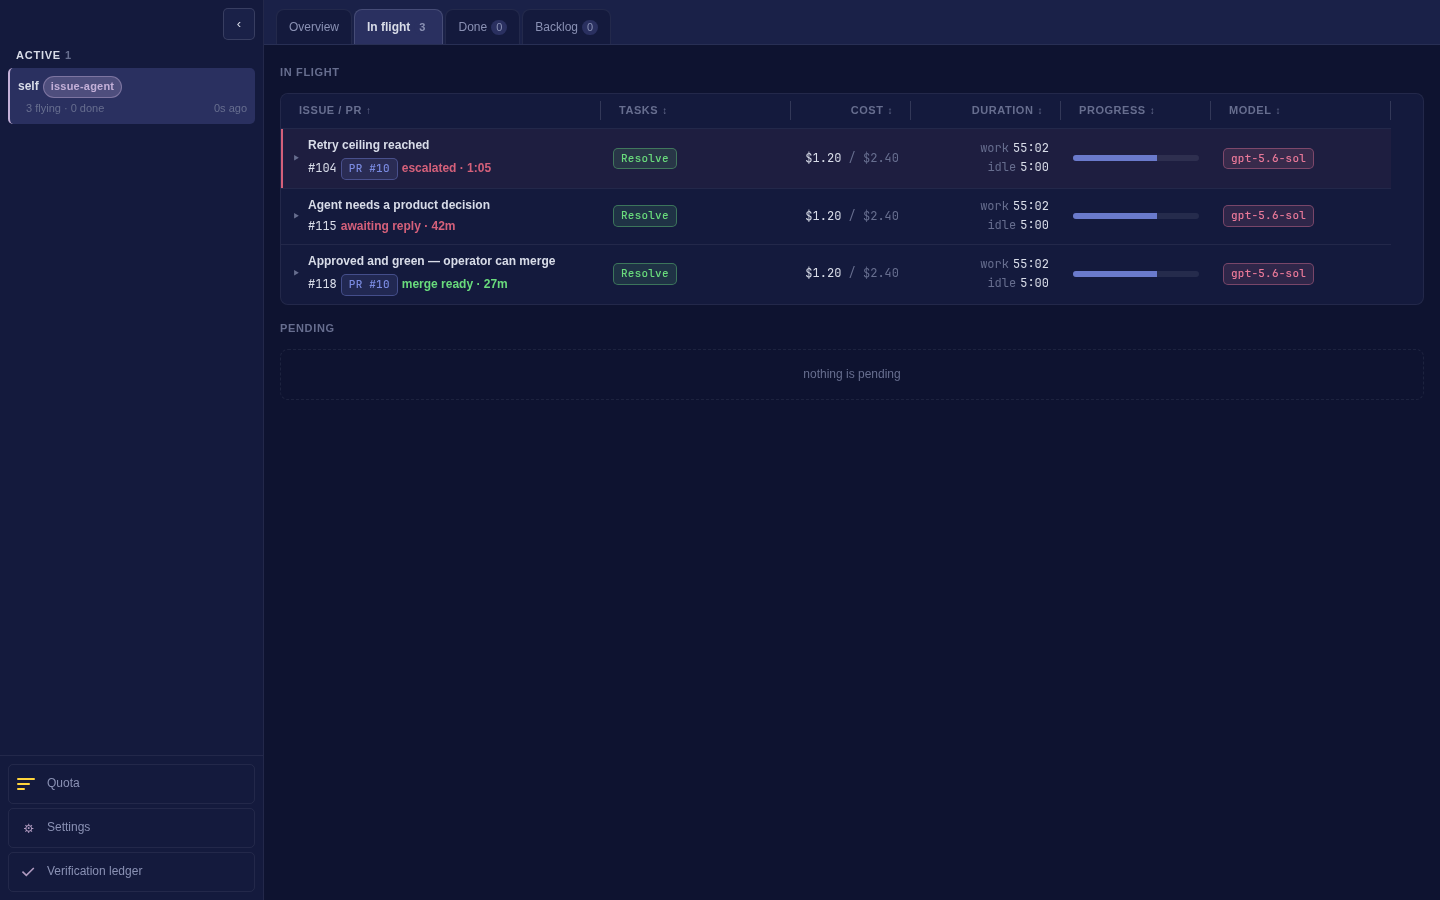
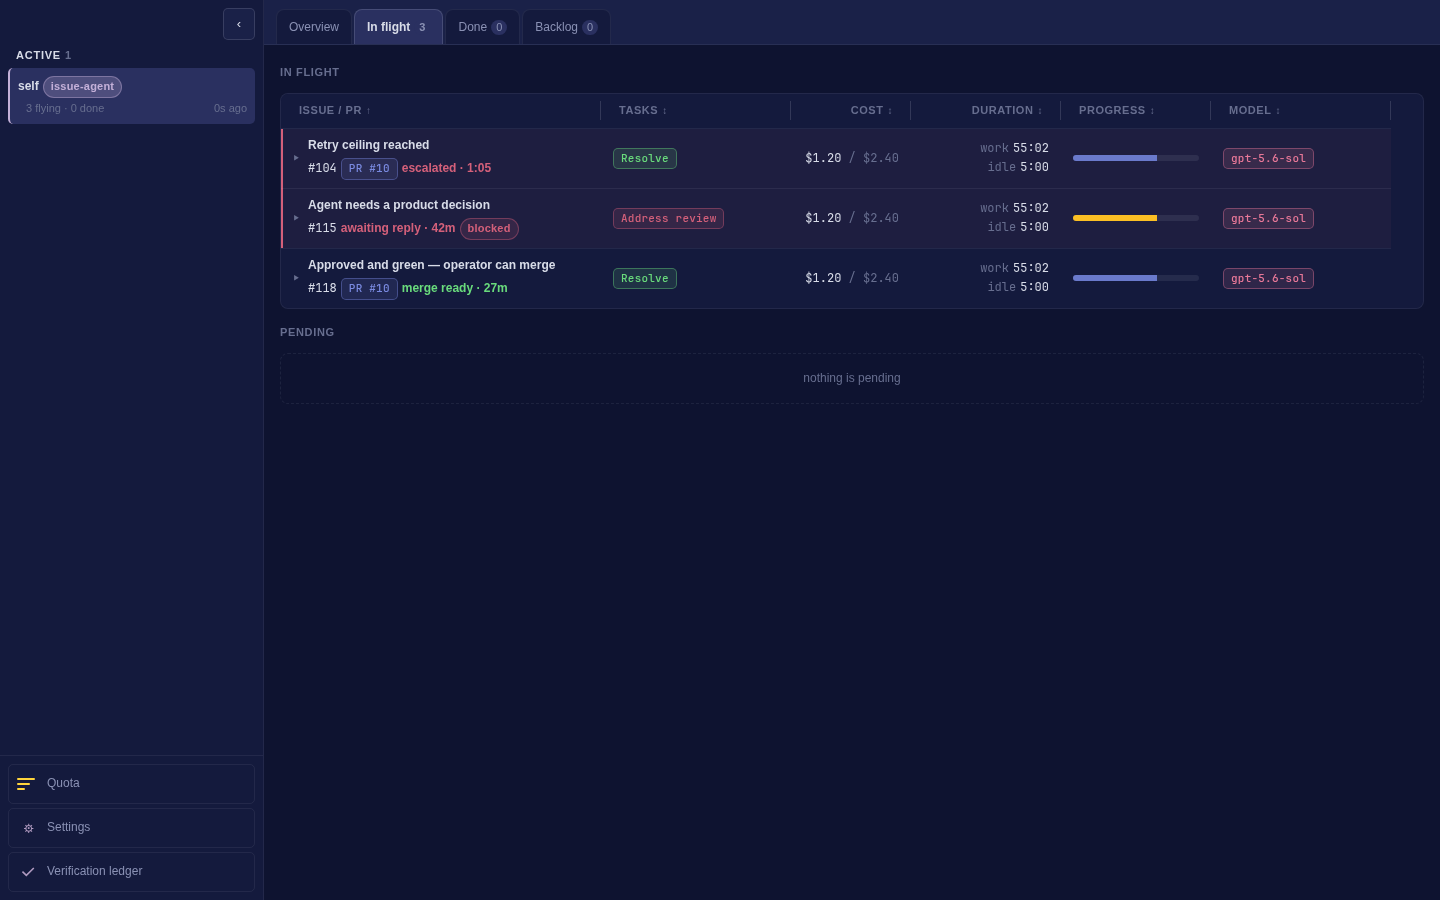
fix(dashboard): alert on blocked human work

diff --git a/dashboard/src/components/IssuesTab.118.test.tsx b/dashboard/src/components/IssuesTab.118.test.tsx
@@ -68,4 +68,41 @@ describe("human-owned actions", () => {
     expect(screen.getByText(/merge ready · 5m/)).toBeVisible();
     expect(screen.queryByRole("button", { name: /merge/i })).not.toBeInTheDocument();
   });
+
+  it("alerts on a blocked row and renders its blocked leg as a failure", () => {
+    const blocked: IssueCard = {
+      ...card,
+      stage: "blocked",
+      human_action: null,
+      human_wait_since_ts: null,
+      human_wait_s: null,
+      flags: ["blocked"],
+      steps: [{
+        kind: "ADDRESS_REVIEW",
+        state: "blocked",
+        status: "blocked",
+        cost_usd: 2,
+      }],
+    };
+
+    const { container } = render(
+      <IssuesTab
+        repo="demo"
+        sub="inflight"
+        issues={polled({
+          in_flight: [blocked],
+          pending: [],
+          done: [],
+          backlog: [],
+          gh_ok: true,
+          notifications: [],
+          warnings: [],
+        })}
+        onOpenIssue={vi.fn()}
+      />,
+    );
+
+    expect(container.querySelector("tbody > tr")).toHaveClass("row-alert");
+    expect(screen.getByTitle(/ADDRESS_REVIEW · blocked · blocked/)).toHaveClass("chip-fail");
+  });
 });

diff --git a/dashboard/src/lib/semantics.ts b/dashboard/src/lib/semantics.ts
@@ -56,6 +56,7 @@ export function stateTone(state: StepState | null | undefined): Tone {
     case "ok":
       return "ok";
     case "failed":
+    case "blocked":
       return "fail";
     case "running":
       return "running";
@@ -87,7 +88,9 @@ export function statusTone(status: string | null | undefined): Tone {
 /** Every flag is a problem; severity splits red from orange-ish yellow. */
 export function flagTone(flag: IssueFlag): Tone {
   if (flag === "waiting") return "info";
-  return flag === "escalated" || flag === "spend-blocked" ? "fail" : "running";
+  return flag === "escalated" || flag === "spend-blocked" || flag === "blocked"
+    ? "fail"
+    : "running";
 }
 
 export function prStateTone(state: string | null | undefined): Tone {

diff --git a/dashboard/src/components/IssuesTab.tsx b/dashboard/src/components/IssuesTab.tsx
@@ -286,7 +286,9 @@ function InFlightTable({
               ? null
               : card.idle_s + (card.idle_active ? offset : 0);
             const open = expanded === card.issue;
-            const alert = card.flags.some((flag) => flag === "escalated" || flag === "spend-blocked");
+            const alert = card.flags.some(
+              (flag) => flag === "escalated" || flag === "spend-blocked" || flag === "blocked",
+            );
             return (
               <Fragment key={card.issue}>
                 <tr

diff --git a/src/issue_agent/app/dashweb/snapshots.py b/src/issue_agent/app/dashweb/snapshots.py
@@ -127,7 +127,9 @@ def leg_state(leg: dash.Leg) -> str:
     """A settled leg is `failed` when it exited for any reason other than a
     clean finish. `status` is the AGENT's claim; `exit_reason` is the
     envelope's, and only the envelope can see a run that died."""
-    return "failed" if leg.exit_reason not in ("", "ok") else "ok"
+    if leg.exit_reason not in ("", "ok"):
+        return "failed"
+    return "blocked" if leg.status.lower() == "blocked" else "ok"
 
 
 def collapse_steps(row: dash.IssueRow) -> list[dict]:
@@ -534,6 +536,13 @@ def _flags(row: dash.IssueRow, human_action: str | None = None) -> list[str]:
         flags.append("recurred")
     if row.spend_blocks:
         flags.append("spend-blocked")
+    newest_leg_blocked = (
+        bool(row.legs)
+        and row.legs[-1].status.lower() == "blocked"
+        and row.stage == "awaiting review"
+    )
+    if row.stage == "blocked" or newest_leg_blocked:
+        flags.append("blocked")
     if _deferred_event(row):
         flags.append("waiting")
     if human_action:

diff --git a/tests/app/test_human_action_118.py b/tests/app/test_human_action_118.py
@@ -213,3 +213,21 @@ def test_malformed_comment_author_does_not_break_human_action_projection():
     assert snapshots.issue_card(
         row_for([RESOLVE], 7), NOW, gh_issue=issue
     )["human_action"] == "awaiting-reply"
+
+
+def test_cleanly_blocked_leg_flags_the_row_and_is_not_a_successful_step():
+    blocked = {
+        "ts": ts(minutes=20),
+        "event": "agent_run",
+        "role": "fix",
+        "kind": "ADDRESS_REVIEW",
+        "number": 90,
+        "issue": 7,
+        "status": "blocked",
+        "exit_reason": "ok",
+    }
+
+    card = snapshots.issue_card(row_for([RESOLVE, blocked], 7), NOW)
+
+    assert "blocked" in card["flags"]
+    assert card["steps"][-1]["state"] == "blocked"
